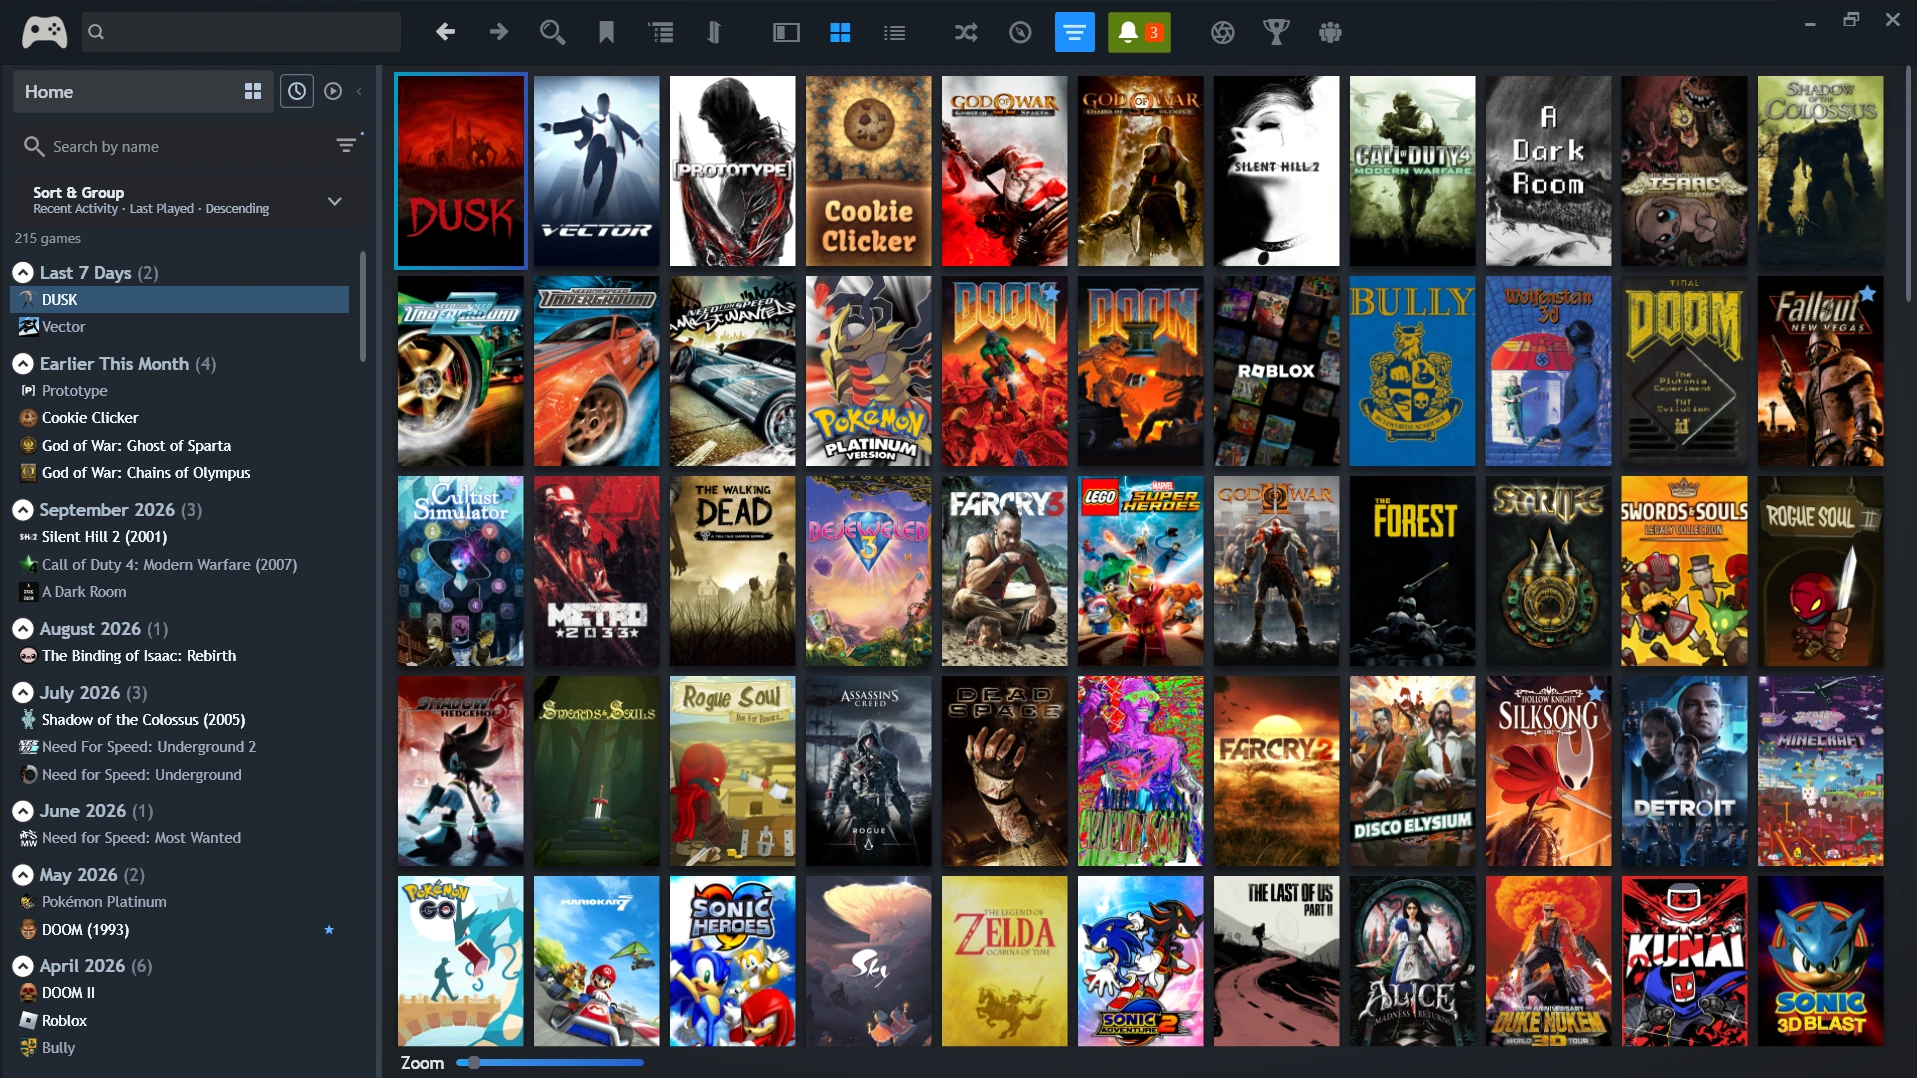
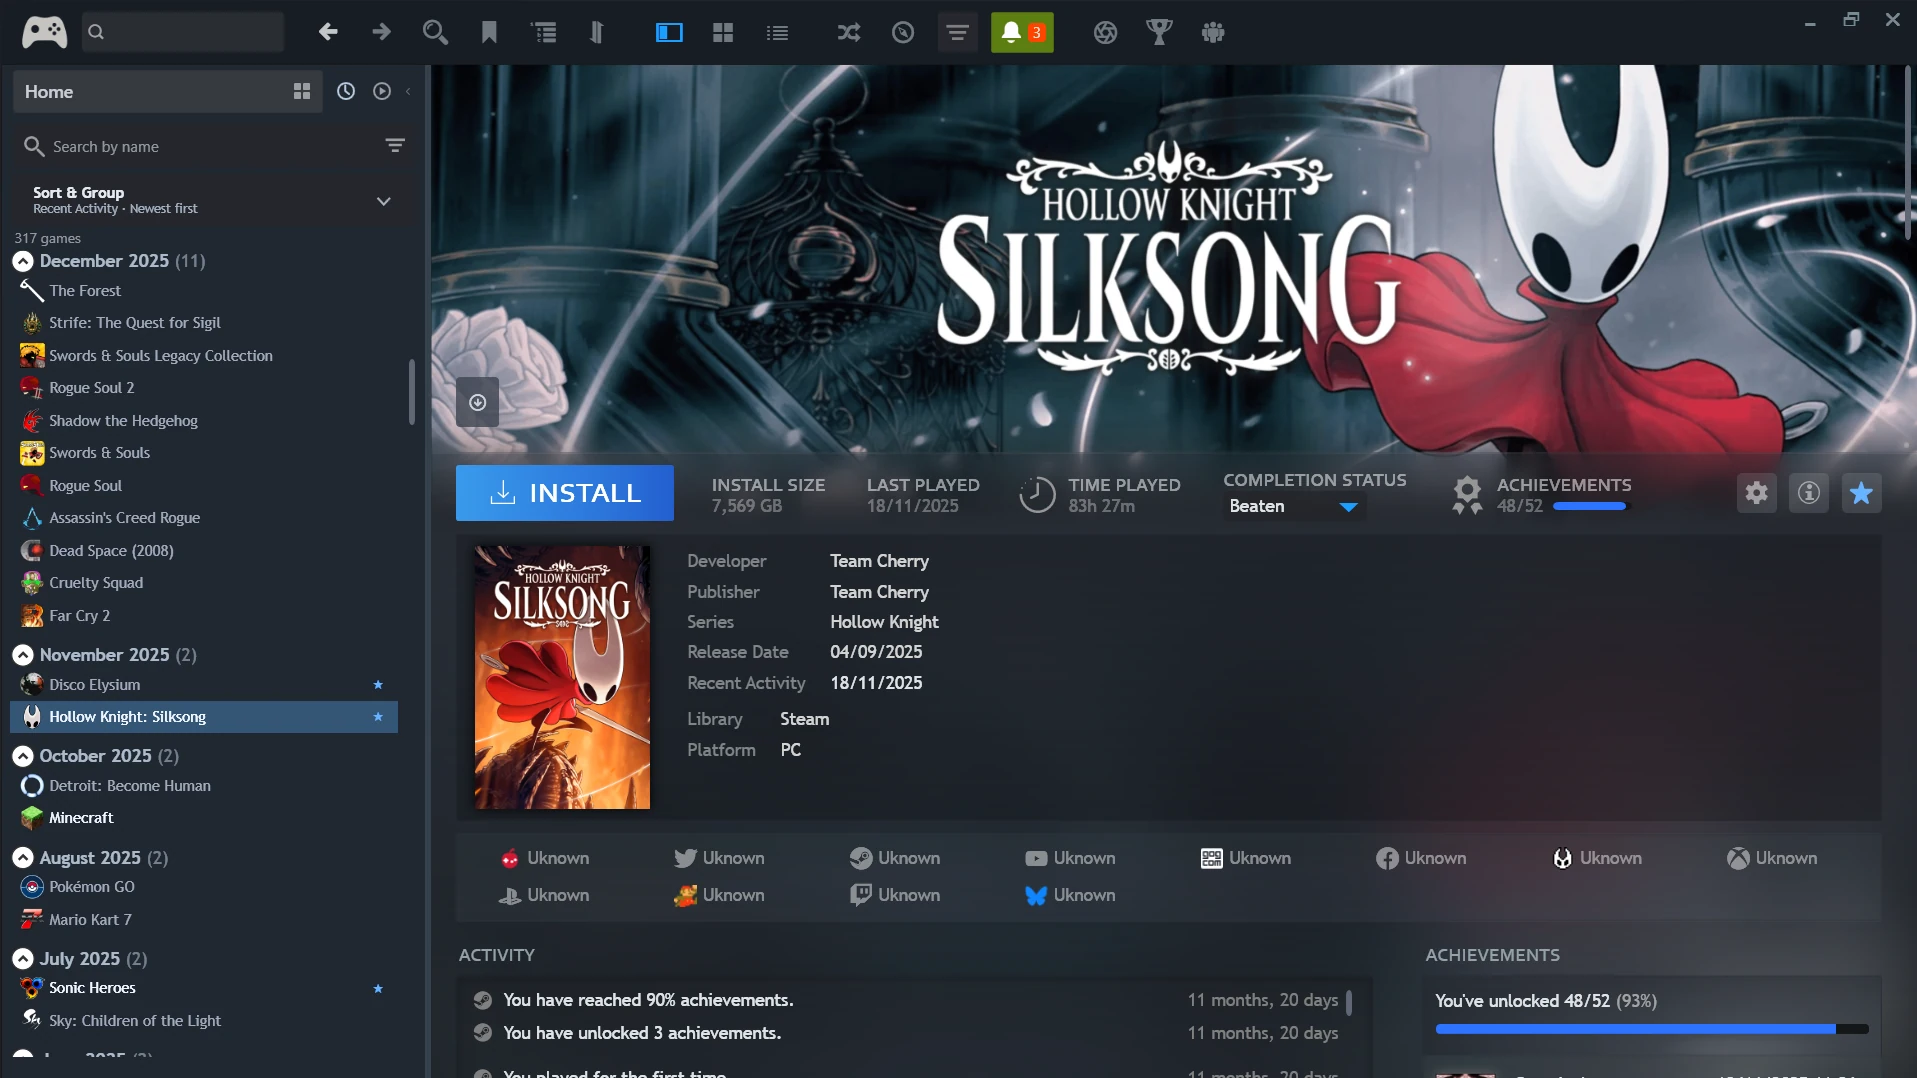
docs: refresh screenshots for Helium v0.3.1

diff --git a/README.md b/README.md
@@ -46,11 +46,11 @@ The Navigator uses Playnite's existing library data. It doesn't maintain a separ
 
 Click any screenshot to view it at full resolution.
 
-| Hybrid Grid & Details | Full Details View |
+| Hybrid Grid & Details | Sort & Group |
 |:---:|:---:|
-| [![Navigator, Grid and game details](docs/images/hybrid-layout.webp)](docs/images/hybrid-layout.webp) | [![Navigator alongside the Full Details view](docs/images/full-details.webp)](docs/images/full-details.webp) |
-| **Recent Activity** | **Sort & Group** |
-| [![Navigator showing chronological recent activity groups](docs/images/recent-activity.webp)](docs/images/recent-activity.webp) | [![Navigator independent Sort and Group popup](docs/images/sort-and-group.webp)](docs/images/sort-and-group.webp) |
+| [![Navigator beside the Grid and EarthBound details](docs/images/hybrid-layout.webp)](docs/images/hybrid-layout.webp) | [![Navigator Sort and Group controls with sorting options](docs/images/sort-and-group.webp)](docs/images/sort-and-group.webp) |
+| **Recent Activity + Details** | **Native Full Details View** |
+| [![Navigator recent activity groups alongside Silksong details](docs/images/recent-activity.webp)](docs/images/recent-activity.webp) | [![Playnite native Full Details View showing DOOM Eternal](docs/images/full-details.webp)](docs/images/full-details.webp) |
 
 ## Installation
 
